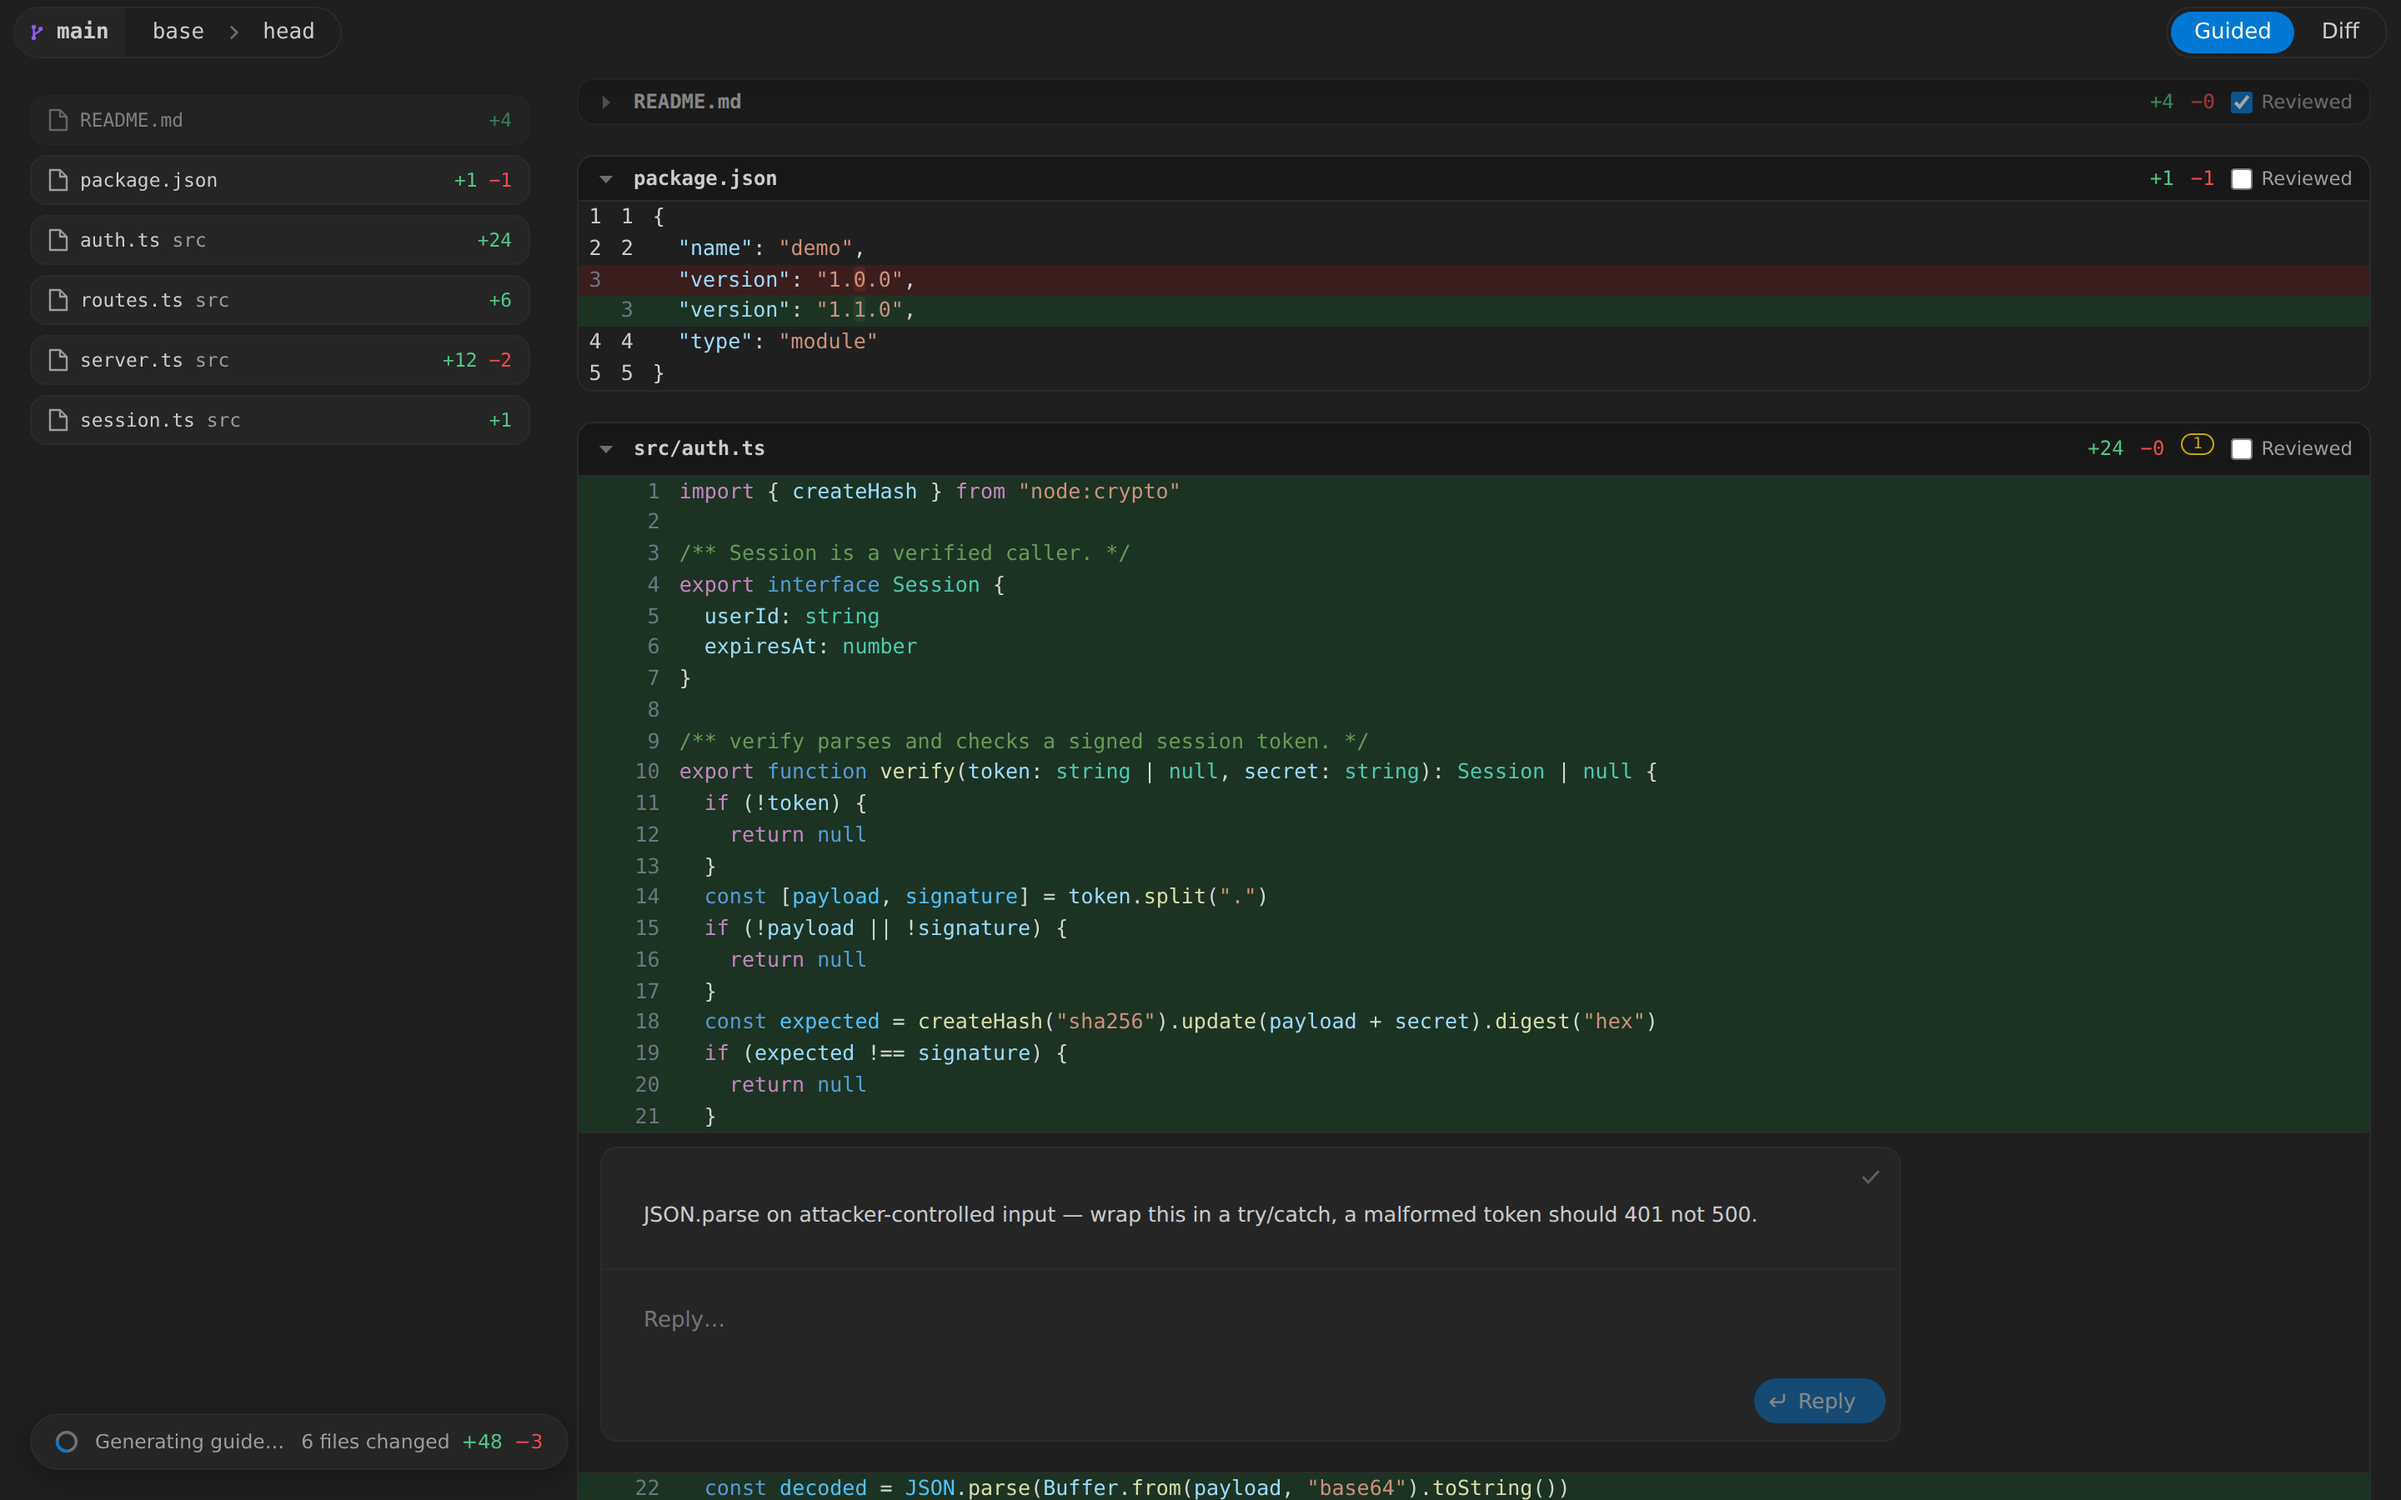
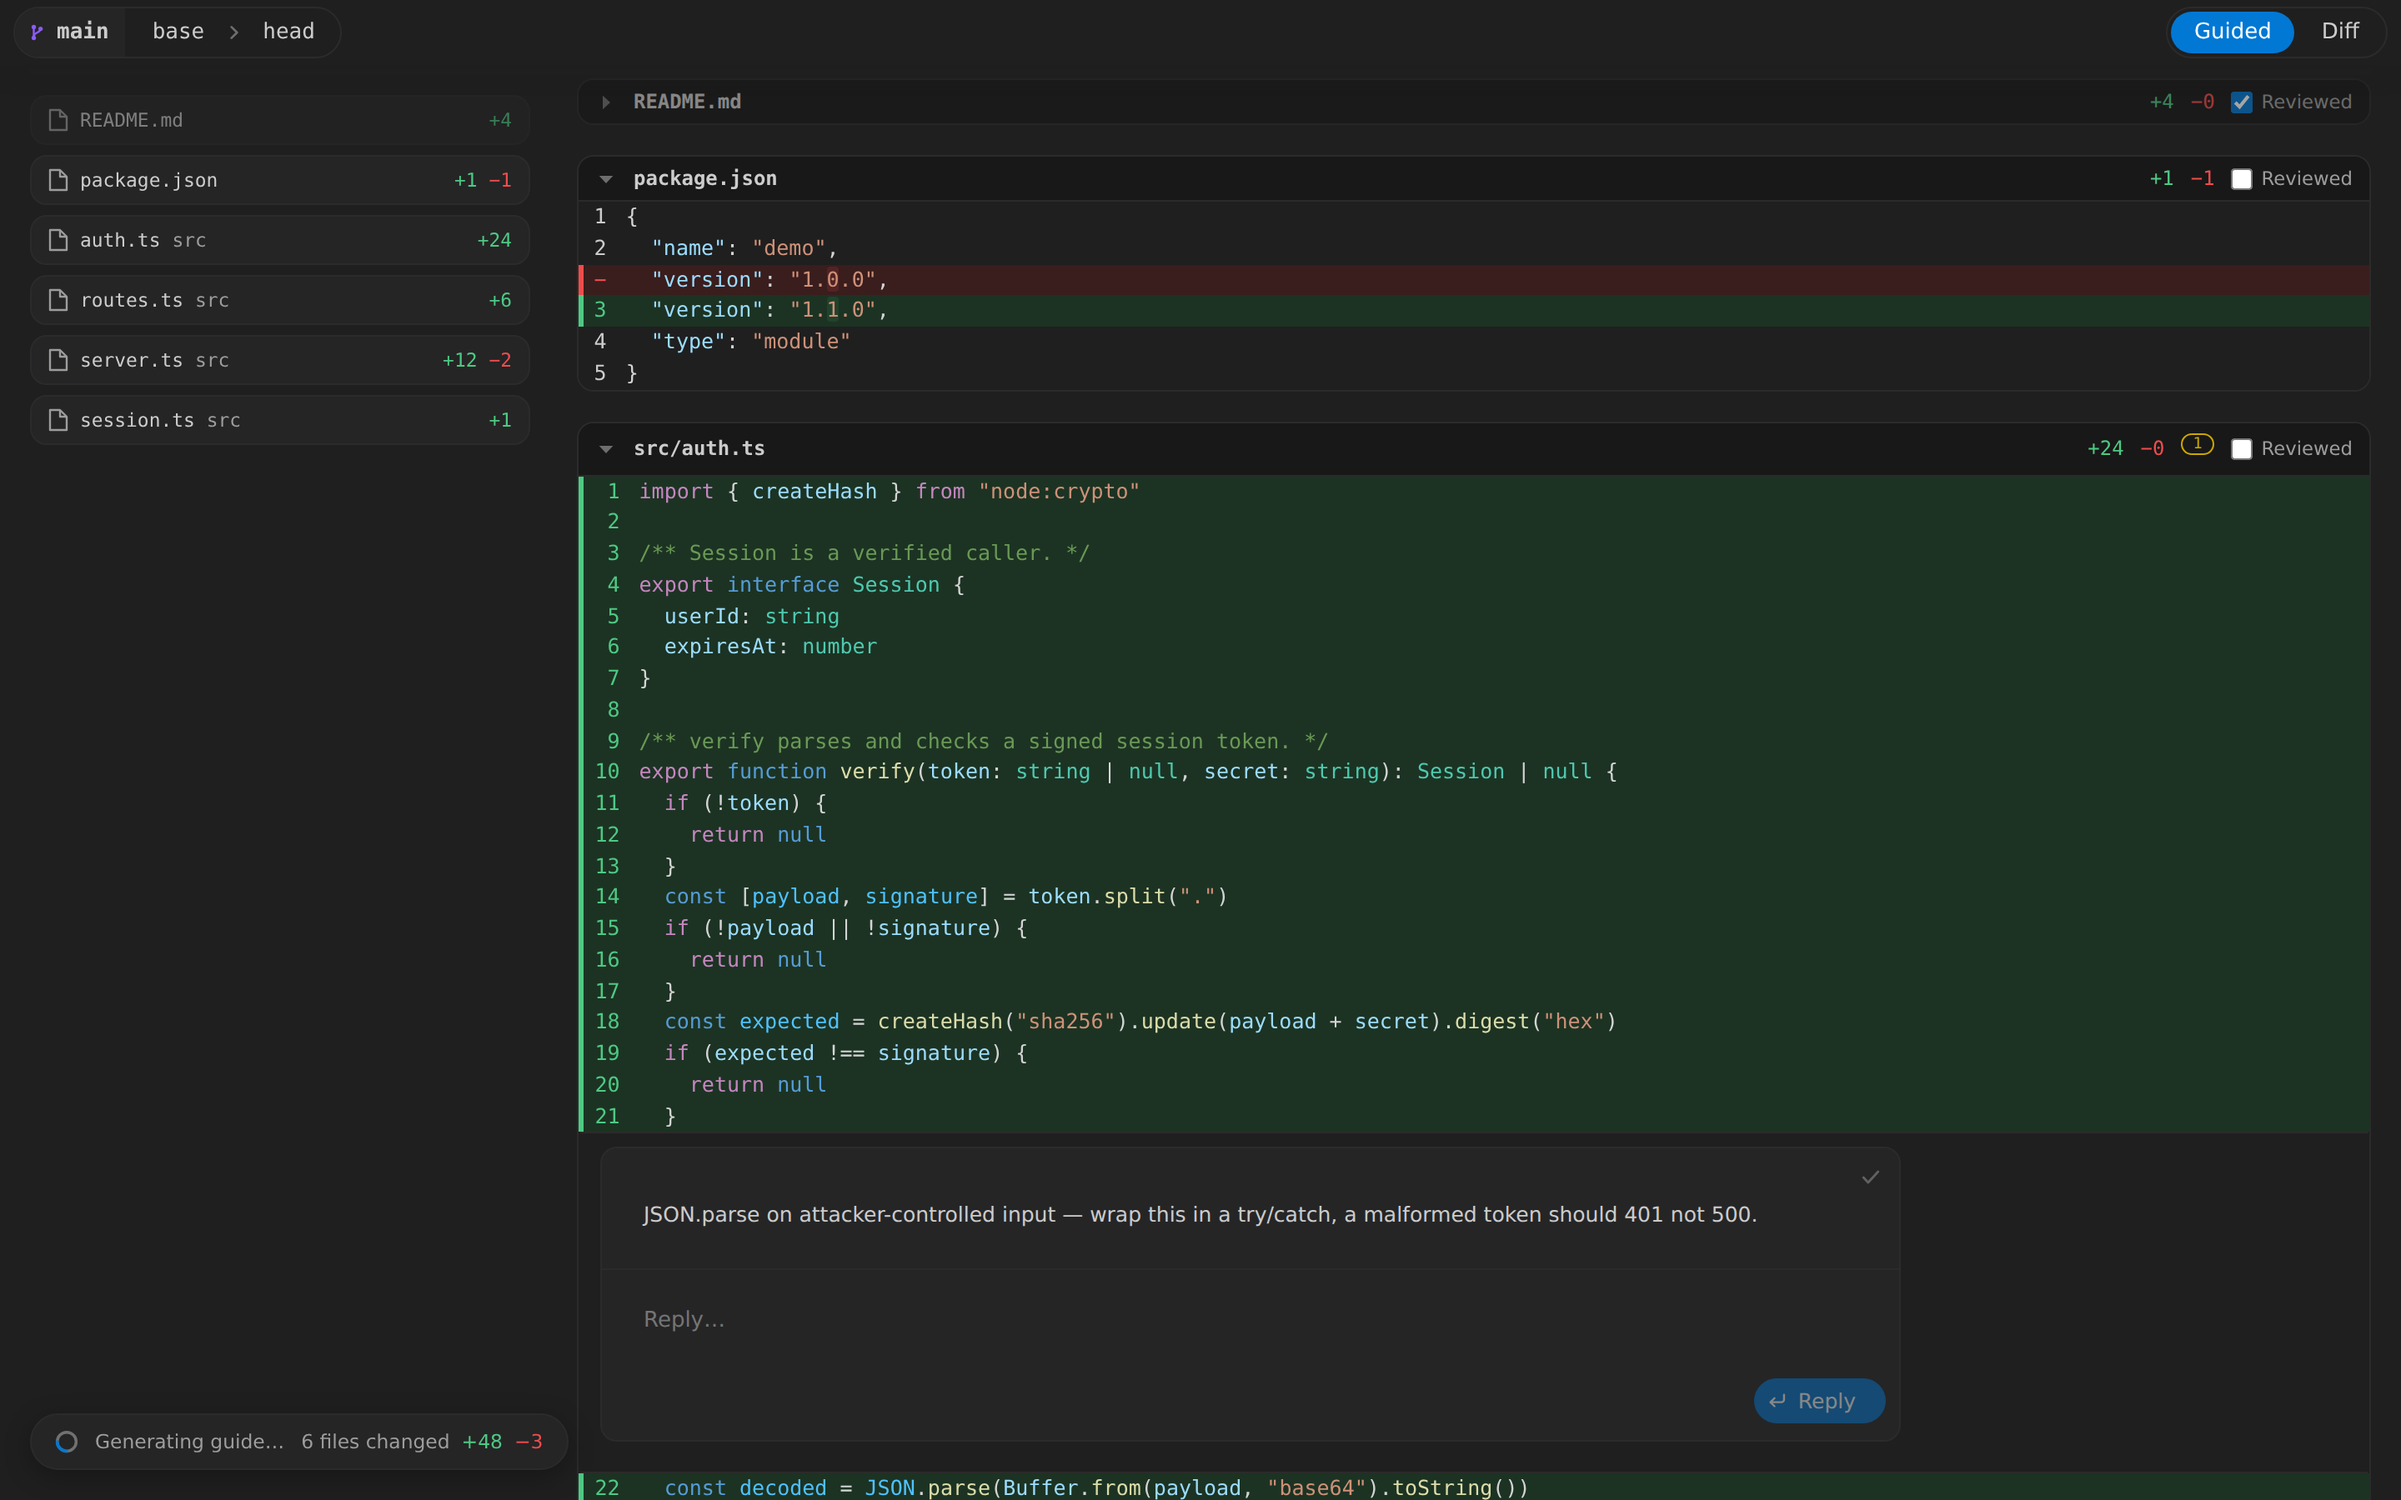
Print a line number once, and mark the line that lost one
Two gutters printed the same number twice on every unchanged line and left a
column of blanks beside every changed one. renderGutter empties the old side, so
what is left is one run of new numbers with a dash where a line was taken away,
and the emptied column collapses to the bar that colours the change.

Claude-Session: https://claude.ai/code/session_01GdVzQZNRY88Fe75gzKDsfJ

diff --git a/src/webview/theme.css b/src/webview/theme.css
@@ -517,8 +517,8 @@ textarea:focus { outline: 1px solid var(--vscode-focusBorder); }
   --diff-selection-background-color: var(--vscode-editor-selectionBackground, #264f78);
   --diff-gutter-insert-background-color: var(--vscode-diffEditor-insertedLineBackground);
   --diff-gutter-delete-background-color: var(--vscode-diffEditor-removedLineBackground);
-  --diff-gutter-insert-text-color: var(--vscode-editorLineNumber-foreground);
-  --diff-gutter-delete-text-color: var(--vscode-editorLineNumber-foreground);
+  --diff-gutter-insert-text-color: var(--vscode-gitDecoration-addedResourceForeground);
+  --diff-gutter-delete-text-color: var(--vscode-gitDecoration-deletedResourceForeground);
   --diff-code-insert-background-color: var(--vscode-diffEditor-insertedLineBackground);
   --diff-code-delete-background-color: var(--vscode-diffEditor-removedLineBackground);
   --diff-code-insert-edit-background-color: var(--vscode-diffEditor-insertedTextBackground);
@@ -534,12 +534,23 @@ textarea:focus { outline: 1px solid var(--vscode-focusBorder); }
 
 .diff { font-size: var(--vscode-editor-font-size); }
 
-/* the library sizes both gutters at a flat 7ch, which strands a two-digit number in the
-   middle of its column; FileDiff sets --gr-line-ch to the widest number the file can show,
-   so the numbers sit against the code they mark */
-.gr-file { --gr-line-pad: 0.7ch; --gr-line-col: calc(var(--gr-line-ch, 4) * 1ch + 2 * var(--gr-line-pad)); }
+/* the library gives each side a 7ch gutter of its own, which strands a two-digit number in
+   the middle of its column and prints the same number twice on every unchanged line. The old
+   column is emptied by renderGutter and collapses to the bar marking the change, leaving one
+   run of numbers as wide as the widest --gr-line-ch the file can show. */
+.gr-file {
+  --gr-line-pad: 0.7ch;
+  --gr-line-bar: 3px;
+  --gr-line-col: calc(var(--gr-line-ch, 4) * 1ch + 2 * var(--gr-line-pad));
+}
 .diff-gutter-col { width: var(--gr-line-col); }
+.diff-gutter-col:first-child { width: var(--gr-line-bar); }
 .diff-gutter { cursor: pointer; user-select: none; padding: 0 var(--gr-line-pad); }
+.diff-gutter:first-child { padding: 0; }
+
+/* the collapsed column is the only mark a changed line gets outside its own tint */
+.diff-gutter-insert:first-child { background: var(--vscode-gitDecoration-addedResourceForeground); }
+.diff-gutter-delete:first-child { background: var(--vscode-gitDecoration-deletedResourceForeground); }
 .diff-gutter:hover { color: var(--vscode-editorLineNumber-activeForeground); }
 .diff-code-edit, .diff-code-mark { border-radius: 2px; }
 .diff-decoration { color: var(--vscode-descriptionForeground); background: var(--vscode-editor-background); }
@@ -589,8 +600,8 @@ textarea:focus { outline: 1px solid var(--vscode-focusBorder); }
 }
 .gr-fold-act:hover .gr-caret { color: var(--vscode-foreground); }
 
-/* two gutters wide, so the label starts where the code does */
-.gr-fold-caret { flex: 0 0 calc(2 * var(--gr-line-col)); display: flex; align-items: center; justify-content: center; }
+/* the bar and the gutter together, so the label starts where the code does */
+.gr-fold-caret { flex: 0 0 calc(var(--gr-line-bar) + var(--gr-line-col)); display: flex; align-items: center; justify-content: center; }
 .gr-fold-label { padding-left: 0.5em; }
 
 /* what a run hides is worth saying on the bar itself, since the reader cannot see it */

diff --git a/src/webview/FileDiff.test.tsx b/src/webview/FileDiff.test.tsx
@@ -253,6 +253,31 @@ describe('FileDiff', () => {
     expect(read.indexOf('line34')).toBeLessThan(read.indexOf('7 lines unchanged'))
   })
 
+  it('numbers a line once, on the new side, and dashes the line that was taken away', () => {
+    show()
+
+    const gutters = [...document.querySelectorAll('.diff-line')].map(row =>
+      [...row.querySelectorAll('.diff-gutter')].map(cell => cell.textContent),
+    )
+
+    expect(gutters).toEqual([
+      ['', '31'],
+      ['', '\u2212'],
+      ['', '32'],
+      ['', '33'],
+    ])
+  })
+
+  it('still anchors a comment to the old side from the one gutter a deleted line has', () => {
+    show()
+
+    fireEvent.click(screen.getByText('\u2212'))
+    fireEvent.change(screen.getByPlaceholderText('Leave a comment\u2026'), { target: { value: 'on the deletion' } })
+    fireEvent.click(screen.getByText('Comment'))
+
+    expect(post).toHaveBeenCalledWith(expect.objectContaining({ type: 'startThread', side: 'old', line: 32 }))
+  })
+
   it('attaches a new-side comment only to the added line, not the deleted line of the same number', () => {
     show(true, [lineThread('new', 32, 'note on the addition')])
 

diff --git a/src/webview/expand.ts b/src/webview/expand.ts
@@ -72,13 +72,13 @@ export function hiddenIn(gap: Gap): number {
   return sizeOf(gap) - gap.shown
 }
 
-/** gutterDigits is how many characters the widest line number a file can show takes up. */
+/** gutterDigits is how many characters the widest number the one gutter shows takes up. */
 export function gutterDigits(hunks: readonly HunkData[], lineCount: number): number {
   const last = hunks[hunks.length - 1]
   // a run past the last hunk reaches the end of the file, so the source outruns the patch
   const oldEnd = Math.max(lineCount, last ? last.oldStart + last.oldLines - 1 : 1)
-  const newEnd = oldEnd + deltaOf(last, undefined)
-  return String(Math.max(oldEnd, newEnd, 1)).length
+  // only the new side is ever printed, so the old numbers do not set the width
+  return String(Math.max(oldEnd + deltaOf(last, undefined), 1)).length
 }
 
 /** deltaOf is what the old line numbers around a pair of hunks are shifted by on the new side. */

diff --git a/src/webview/FileDiff.tsx b/src/webview/FileDiff.tsx
@@ -9,6 +9,7 @@ import {
   type ChangeData,
   type DiffType,
   type FileData,
+  type GutterOptions,
   type HunkData,
   type HunkTokens,
   type RenderToken,
@@ -235,6 +236,7 @@ const DiffTable = ({
     tokens={tokens}
     widgets={widgets}
     renderToken={renderToken}
+    renderGutter={renderGutter}
     gutterEvents={{
       onClick: ({ change }) => {
         if (change) {
@@ -244,6 +246,14 @@ const DiffTable = ({
     }}
   />
 )
+
+/** renderGutter empties the old column, leaving one run of new line numbers with a dash for a line taken away. */
+const renderGutter = ({ change, side, renderDefault }: GutterOptions): ReactNode => {
+  if (side === 'old') {
+    return null
+  }
+  return change.type === 'delete' ? '−' : renderDefault()
+}
 
 /** BinaryNote stands in for a diff that cannot be rendered or commented on. */
 const BinaryNote = () => <div className="gr-file-note">Binary file — not shown.</div>
